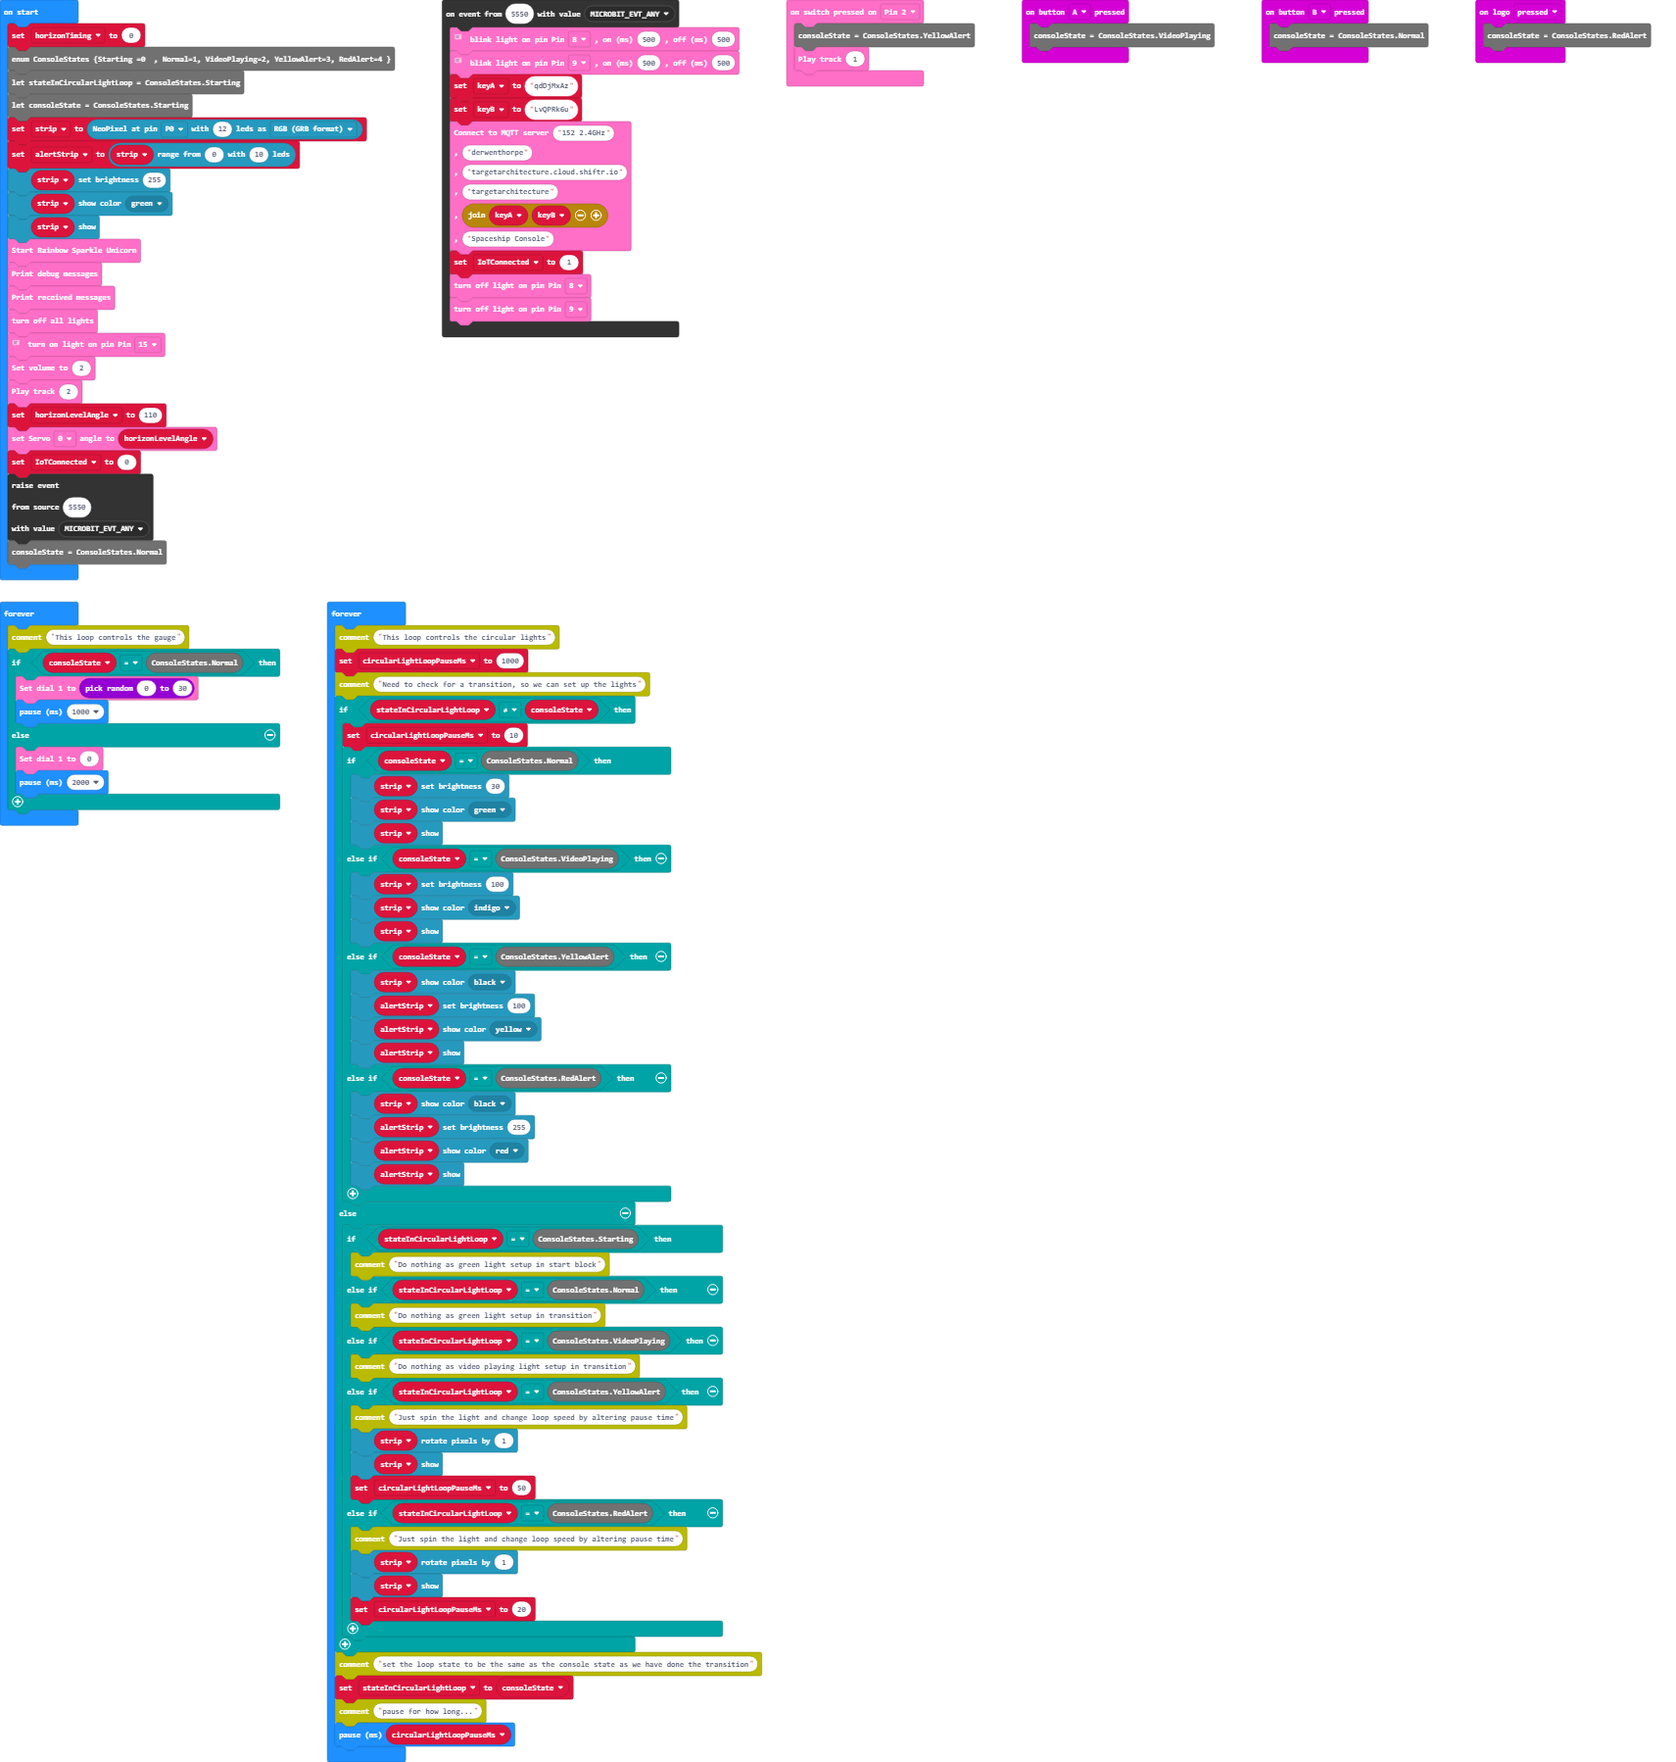
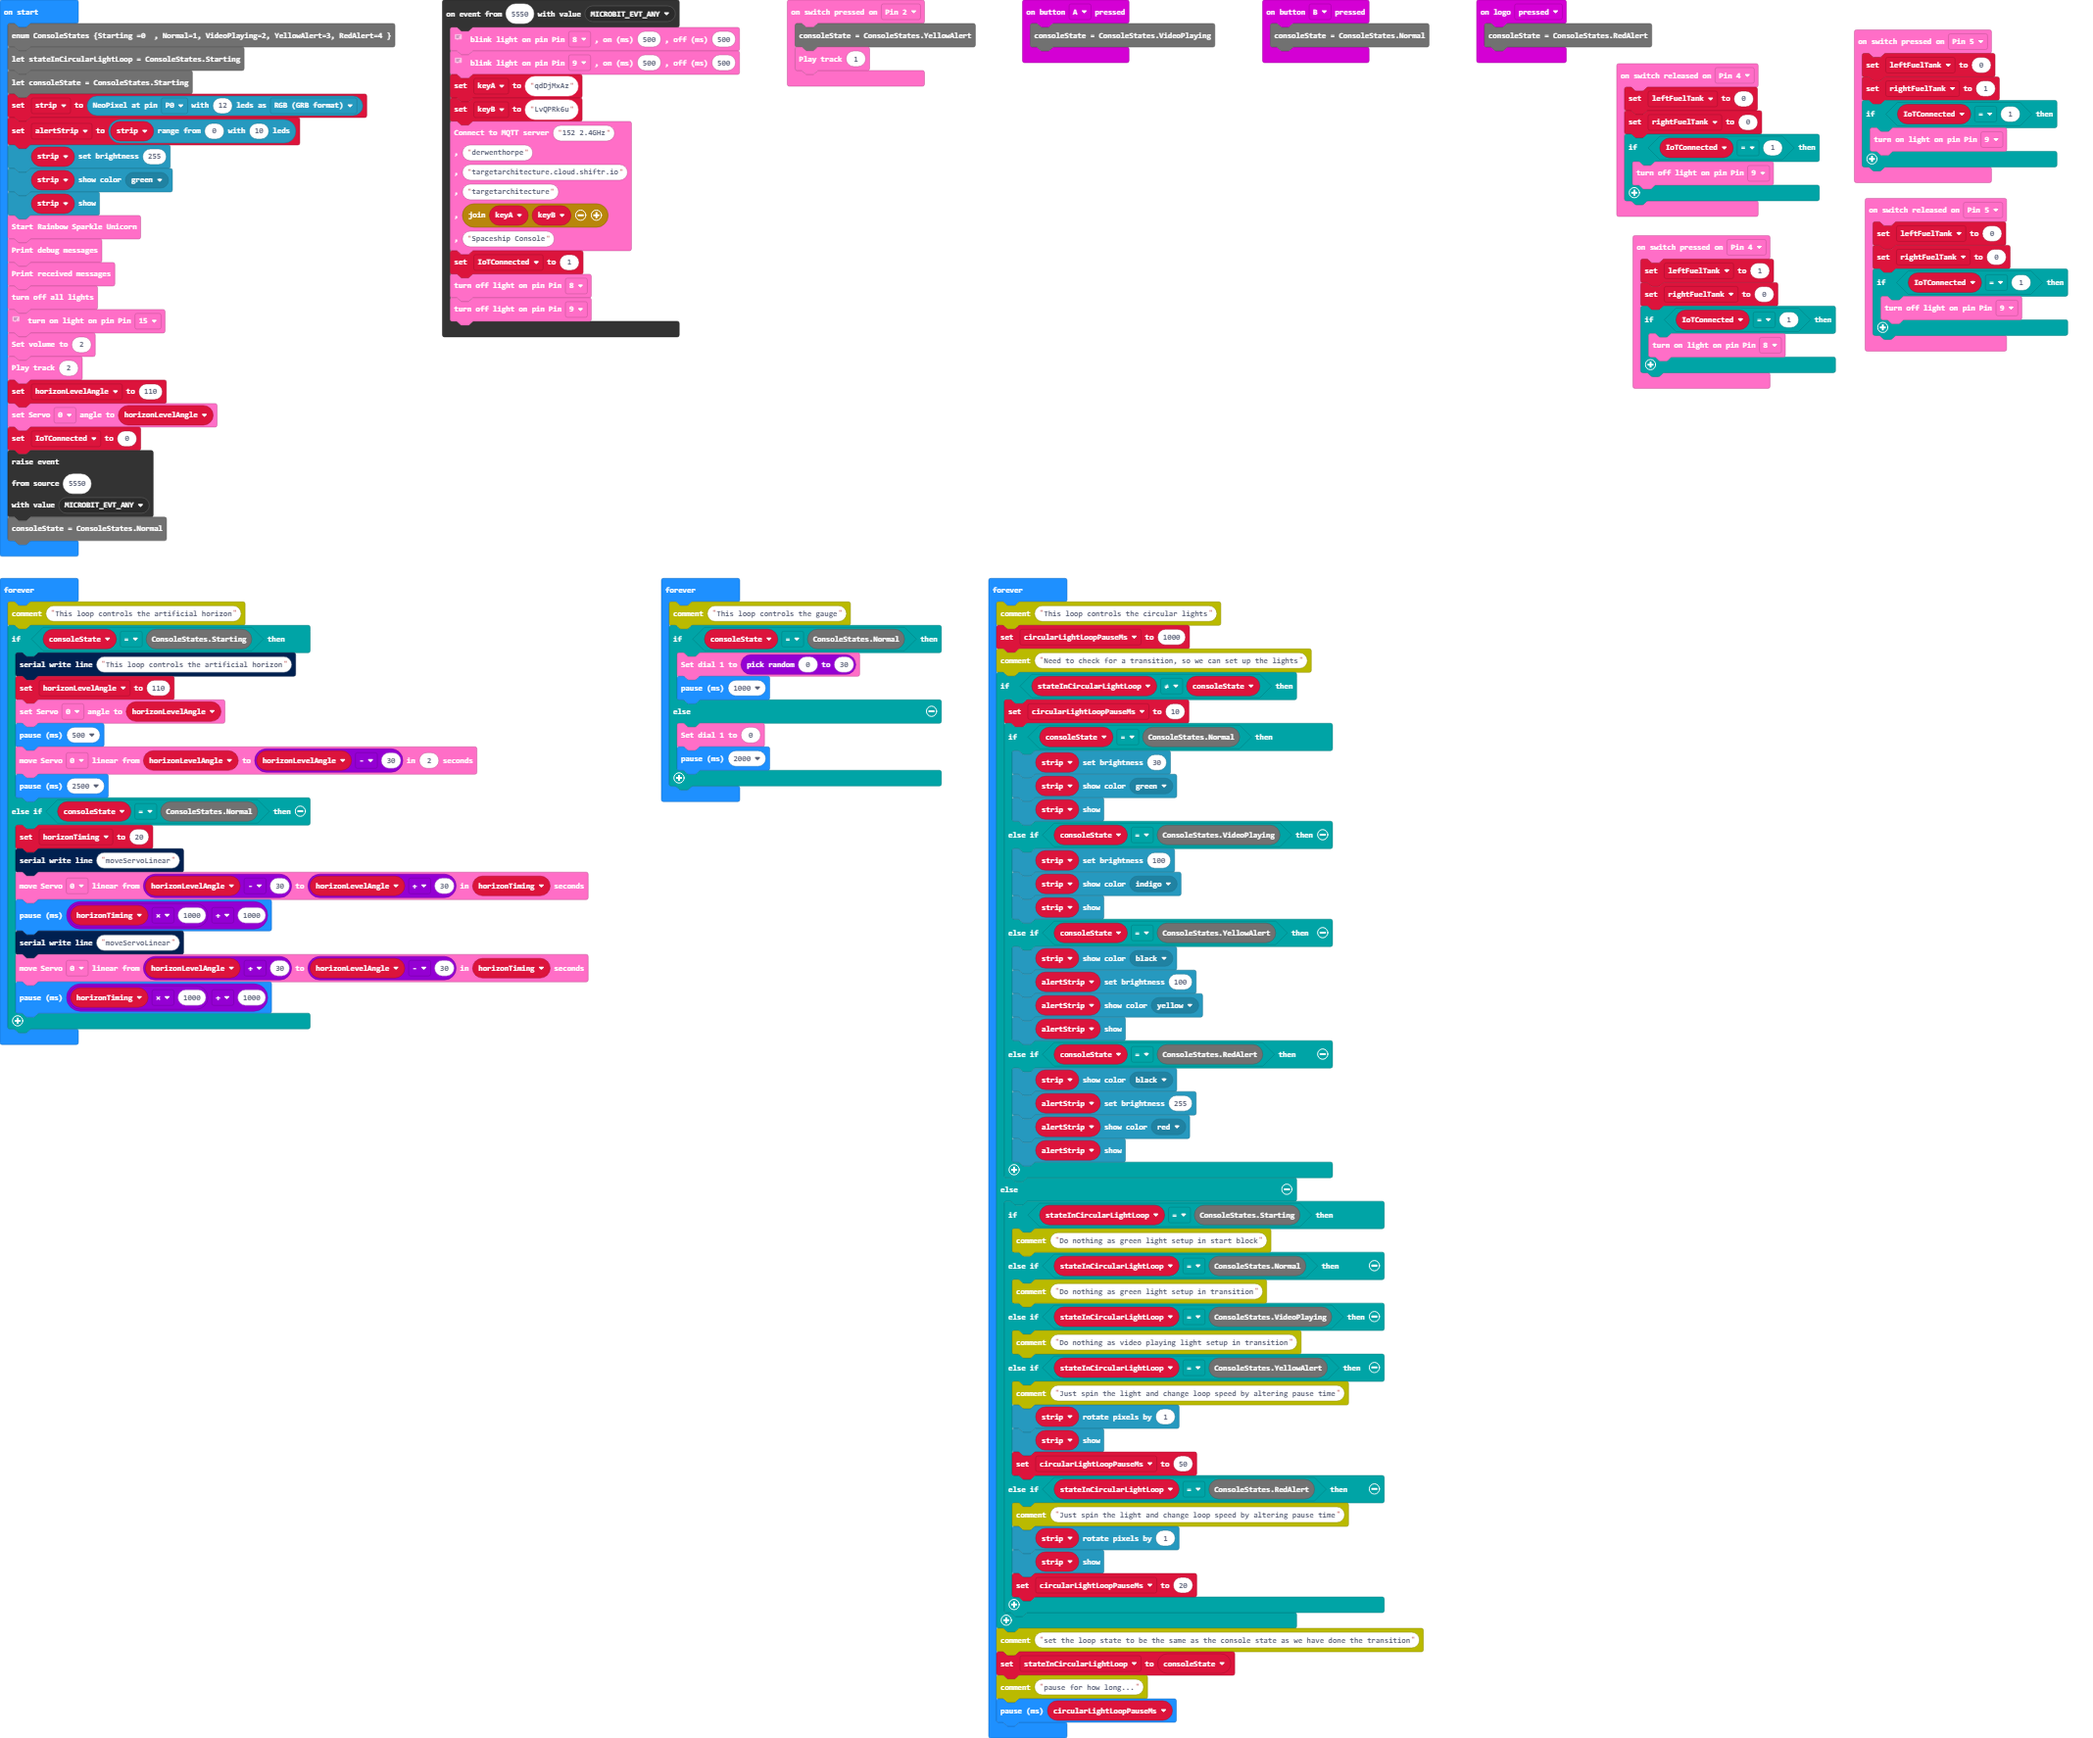
Update pxt.json, main.blocks, main.ts

Changed region(s): [[0.0, 0.0, 0.9912, 1.0]]

diff --git a/main.ts b/main.ts
@@ -24,17 +24,47 @@ RainbowSparkleUnicorn.Sound.playTrack(1)
 input.onButtonPressed(Button.A, function () {
     consoleState = ConsoleStates.VideoPlaying
 })
+RainbowSparkleUnicorn.Switch.onSwitchReleased(switchPins.P4, function () {
+    leftFuelTank = 0
+    rightFuelTank = 0
+    if (IoTConnected == 1) {
+        RainbowSparkleUnicorn.Light.turnOff(lightPins.P9)
+    }
+})
+RainbowSparkleUnicorn.Switch.onSwitchPressed(switchPins.P5, function () {
+    leftFuelTank = 0
+    rightFuelTank = 1
+    if (IoTConnected == 1) {
+        RainbowSparkleUnicorn.Light.turnOn(lightPins.P9)
+    }
+})
+RainbowSparkleUnicorn.Switch.onSwitchPressed(switchPins.P4, function () {
+    leftFuelTank = 1
+    rightFuelTank = 0
+    if (IoTConnected == 1) {
+        RainbowSparkleUnicorn.Light.turnOn(lightPins.P8)
+    }
+})
 input.onButtonPressed(Button.B, function () {
     consoleState = ConsoleStates.Normal
 })
 input.onLogoEvent(TouchButtonEvent.Pressed, function () {
     consoleState = ConsoleStates.RedAlert
 })
+RainbowSparkleUnicorn.Switch.onSwitchReleased(switchPins.P5, function () {
+    leftFuelTank = 0
+    rightFuelTank = 0
+    if (IoTConnected == 1) {
+        RainbowSparkleUnicorn.Light.turnOff(lightPins.P9)
+    }
+})
 let circularLightLoopPauseMs = 0
+let horizonTiming = 0
+let rightFuelTank = 0
+let leftFuelTank = 0
 let keyB = ""
 let keyA = ""
 let IoTConnected = 0
-let horizonTiming = 0
 enum ConsoleStates {Starting =0  , Normal=1, VideoPlaying=2, YellowAlert=3, RedAlert=4 }
 let stateInCircularLightLoop = ConsoleStates.Starting
 let consoleState = ConsoleStates.Starting
@@ -59,6 +89,25 @@ control.raiseEvent(
 EventBusValue.MICROBIT_EVT_ANY
 )
 consoleState = ConsoleStates.Normal
+basic.forever(function () {
+    comment.comment("This loop controls the artificial horizon")
+    if (consoleState == ConsoleStates.Starting) {
+        serial.writeLine("This loop controls the artificial horizon")
+        horizonLevelAngle = 110
+        RainbowSparkleUnicorn.Movement.setServoAngle(Servo.P0, horizonLevelAngle)
+        basic.pause(500)
+        RainbowSparkleUnicorn.Movement.moveServoLinear(Servo.P0, horizonLevelAngle, horizonLevelAngle - 30, 2)
+        basic.pause(2500)
+    } else if (consoleState == ConsoleStates.Normal) {
+        horizonTiming = 20
+        serial.writeLine("moveServoLinear")
+        RainbowSparkleUnicorn.Movement.moveServoLinear(Servo.P0, horizonLevelAngle - 30, horizonLevelAngle + 30, horizonTiming)
+        basic.pause(horizonTiming * 1000 + 1000)
+        serial.writeLine("moveServoLinear")
+        RainbowSparkleUnicorn.Movement.moveServoLinear(Servo.P0, horizonLevelAngle + 30, horizonLevelAngle - 30, horizonTiming)
+        basic.pause(horizonTiming * 1000 + 1000)
+    }
+})
 basic.forever(function () {
     comment.comment("This loop controls the gauge")
     if (consoleState == ConsoleStates.Normal) {
@@ -117,32 +166,4 @@ basic.forever(function () {
     stateInCircularLightLoop = consoleState
     comment.comment("pause for how long...")
     basic.pause(circularLightLoopPauseMs)
-})
-
-
-basic.forever(function () {
-    comment.comment("This loop controls the artificial horizon")
-    if (consoleState == ConsoleStates.Starting) {
-        serial.writeLine("This loop controls the artificial horizon")
-        horizonLevelAngle = 110
-        RainbowSparkleUnicorn.Movement.setServoAngle(Servo.P0, horizonLevelAngle)
-        basic.pause(1000)
-    } else if (consoleState == ConsoleStates.Normal) {
-        while (true) {
-            horizonTiming = 5
-            serial.writeLine("moveServoLinear")
-            RainbowSparkleUnicorn.Movement.moveServoLinear(Servo.P0, horizonLevelAngle, horizonLevelAngle+20, horizonTiming)
-            basic.pause(horizonTiming * 1000*2)
-            serial.writeLine("moveServoLinear")
-            RainbowSparkleUnicorn.Movement.moveServoLinear(Servo.P0, horizonLevelAngle+20, horizonLevelAngle, horizonTiming)
-            basic.pause(horizonTiming * 1000*2)
-            serial.writeLine("moveServoLinear")
-            RainbowSparkleUnicorn.Movement.moveServoLinear(Servo.P0, horizonLevelAngle, horizonLevelAngle-20, horizonTiming)
-            basic.pause(horizonTiming * 1000*2)
-            serial.writeLine("moveServoLinear")
-            RainbowSparkleUnicorn.Movement.moveServoLinear(Servo.P0, horizonLevelAngle-20, horizonLevelAngle, horizonTiming)
-            basic.pause(horizonTiming * 1000*2)
-serial.writeLine("moveServoLinear")
-        }
-    }
 })
